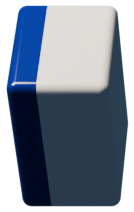
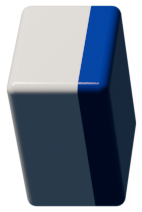
fix(table): mirror the left side-hand pose so the blue back faces the human

diff --git a/frontend/src/table/zoneLayout.test.ts b/frontend/src/table/zoneLayout.test.ts
@@ -225,9 +225,9 @@ describe('side hand zone', () => {
     expect(left.shadows).toHaveLength(13);
     expect(left.bodies.every((tile) => tile.shell === 'shell_hand_side_left')).toBe(true);
     expect(left.bodies.every((tile) => tile.face === null)).toBe(true);
-    expect(left.shadows[1].faceX - left.shadows[0].faceX).toBeCloseTo(-6.2, 9);
-    expect(left.shadows[1].faceY - left.shadows[0].faceY).toBeCloseTo(41.67, 9);
-    expect(left.shadows[12].faceY - left.shadows[0].faceY).toBeCloseTo(12 * 41.67, 9);
+    expect(left.shadows[1].faceX - left.shadows[0].faceX).toBeCloseTo(-6.7, 9);
+    expect(left.shadows[1].faceY - left.shadows[0].faceY).toBeCloseTo(45, 9);
+    expect(left.shadows[12].faceY - left.shadows[0].faceY).toBeCloseTo(12 * 45, 9);
     expect(left.bodies[0].hitBox.width).toBe(
       manifest.shells['shell_hand_side_left'].advanceWidth,
     );

diff --git a/2_5d_mahjong_tile_rendering_architecture.md b/2_5d_mahjong_tile_rendering_architecture.md
@@ -1327,7 +1327,7 @@ the advance box**:
 | human hand, 13 | 902 × 122 | 13 | 13 |
 | human hand, 13 + draw | 994 × 123 | 14 | 14 |
 | top hand, 13 | 897 × 120 | 13 | 13 |
-| left side hand, 13 | 182 × 641 | 13 | 13 |
+| left side hand, 13 | 194 × 684 | 13 | 13 |
 | right side hand, 13 | 188 × 644 | 13 | 13 |
 | open meld, 3 | 238 × 127 | 3 | 3 |
 | pond row, 6 | 446 × 127 | 6 | 6 |
@@ -1347,15 +1347,16 @@ The Phase 3 review found two gaps, both closed in the same session.
 
 The catalogue had no shell for the left or right player's concealed hand. They
 are the side-wall read applied to a standing tile: one shell per side reused
-down a single 13-tile row, not a per-slot fan. The pose is `rotX 90, rotZ 90`
-(standing, blue back to the human) with the side wall's off-axis perspective
-(`el 45`, lateral ±2 units inside, distance 10). The two shells are identical in
-pose; like the side walls, the mirrored camera is the only difference.
+down a single 13-tile row, not a per-slot fan. The pose is `rotX 90` with `rotZ 270` on the left and `rotZ 90` on the right
+(standing, blue back to the human), with the side wall's off-axis perspective
+(`el 45`, lateral ±2 units inside, distance 10). The poses are mirrored like the
+side walls' cameras, so both blue backs face the human while each keeps its own
+side-wall read.
 
 | Shell | Body | Texture | gridStepPx x / y | Shadow |
 | :--- | :--- | :--- | :--- | :--- |
-| `shell_hand_side_left` | 63 × 102 | 67 × 106 / 134 × 212 @2x | (−6.2, 41.67) / (9.05, 64.01) | 111 × 142, standing σ 5 |
-| `shell_hand_side_right` | 67 × 102 | 71 × 106 / 142 × 212 @2x | (6.2, 41.67) / (−9.05, 64.01) | 115 × 142, standing σ 5 |
+| `shell_hand_side_left` | 67 × 102 | 71 × 106 / 142 × 212 @2x | (−6.7, 45) / (9.05, 64.01) | 163 × 168, standing σ 5 |
+| `shell_hand_side_right` | 67 × 102 | 71 × 106 / 142 × 212 @2x | (6.2, 41.67) / (−9.05, 64.01) | 163 × 168, standing σ 5 |
 
 The standing shadow is a rounded rectangle fitted to the yawed base strip; a
 vertical face is forced to `lying: false` rather than trusting the footprint
@@ -1366,15 +1367,15 @@ the shadowed blue family, like the top hand, not the bright face-down wall blue.
 They are bare and add no atlas key; `FACE_DOWN_SHELL_IDS` now lists them.
 
 The layout engine gets `layoutSideHand(manifest, { side, count })`: the row
-steps by the shell's projected short axis (`gridStepPx.x`, 41.67 px down the
-screen) from the far tile to the near one, reuses the shell, and reports a
+steps by the shell's projected short axis (`gridStepPx.x`: 45 px down the
+screen on the left, 41.67 px on the right) from the far tile to the near one, reuses the shell, and reports a
 standing shadow group (`seat-left-hand` / `seat-right-hand`, layer 5). The
-committed representative rows are 182 × 641 (left) and 188 × 644 (right).
+committed representative rows are 194 × 684 (left) and 188 × 644 (right).
 
 **Catalogue counts.** Two base shells were added, so the committed catalogue is
 **107 shells**: twelve base + 14 human-hand slots + 13 top-hand slots + 68 wall
-slots. Textures total **4,425,492 B** (budget 6,291,456 B); `shells.json` is
-**563,225 B** (budget 614,400 B); `check-shells.mjs` reports **7,710 checks
+slots. Textures total **4,428,110 B** (budget 6,291,456 B); `shells.json` is
+**563,226 B** (budget 614,400 B); `check-shells.mjs` reports **7,710 checks
 passed**.
 
 ### 14.2 The pond riichi face clearance

diff --git a/tools/render/README.md b/tools/render/README.md
@@ -280,17 +280,19 @@ the `faceQuad`, and writes both texture scales. The felt is unchanged.
 | `shell_wall_side_left_faceup` | off-axis perspective | rotZ 90° | el 45, 2 units inside / d10 | 104 × 85 | 108 × 89 / 136 × 119 | (−6.91, 45.96) / (92.84, 0) | (−5.64, −39.87) |
 | `shell_wall_side_right` | off-axis perspective | rotX 180°, rotZ 90° | el 45, 2 units inside / d10 | 104 × 85 | 108 × 89 / 136 × 119 | (6.91, 45.96) / (92.84, 0) | (5.64, −39.87) |
 | `shell_wall_side_right_faceup` | off-axis perspective | rotZ 90° | el 45, 2 units inside / d10 | 104 × 85 | 108 × 89 / 136 × 119 | (6.91, 45.96) / (92.84, 0) | (5.64, −39.87) |
-| `shell_hand_side_left` | off-axis perspective | rotX 90°, rotZ 90° | el 45, 2 units inside / d10 | 63 × 102 | 67 × 106 / 111 × 142 | (−6.2, 41.67) / (9.05, 64.01) | — |
-| `shell_hand_side_right` | off-axis perspective | rotX 90°, rotZ 90° | el 45, 2 units inside / d10 | 67 × 102 | 71 × 106 / 115 × 142 | (6.2, 41.67) / (−9.05, 64.01) | — |
+| `shell_hand_side_left` | off-axis perspective | rotX 90°, rotZ 270° | el 45, 2 units inside / d10 | 67 × 102 | 71 × 106 / 163 × 168 | (−6.7, 45) / (9.05, 64.01) | — |
+| `shell_hand_side_right` | off-axis perspective | rotX 90°, rotZ 90° | el 45, 2 units inside / d10 | 67 × 102 | 71 × 106 / 163 × 168 | (6.2, 41.67) / (−9.05, 64.01) | — |
 
 The two side-hand backs stand the tile up (`rotX 90`) and reuse the side-wall
-camera, one shell per side, mirrored only by the camera lateral offset. Their
+camera, one shell per side. The pose and camera are both mirrored (left
+`rotZ 270` / camera +2, right `rotZ 90` / camera −2) so both blue backs face the
+human. Their
 shadow is standing (σ 5) and needs a wider per-shell shadow box
 (`shadowPadding1x`), because the yawed base strip is wider than a hand fan's.
 
-All 107 shell bodies plus their @1x shadow references are **4,425,492 B**
+All 107 shell bodies plus their @1x shadow references are **4,428,110 B**
 (budget 6,291,456 B); the @2x body textures are included, the redundant @2x
-shadow sprites were removed in Phase 2b. `shells.json` is **563,225 B** (budget
+shadow sprites were removed in Phase 2b. `shells.json` is **563,226 B** (budget
 614,400 B). The hand
 slots keep the 104 px body long axis (102 px measured); the human-hand centre
 body is 75 × 106 and its shadow 119 × 142, the drawn body 89 × 106 and its
